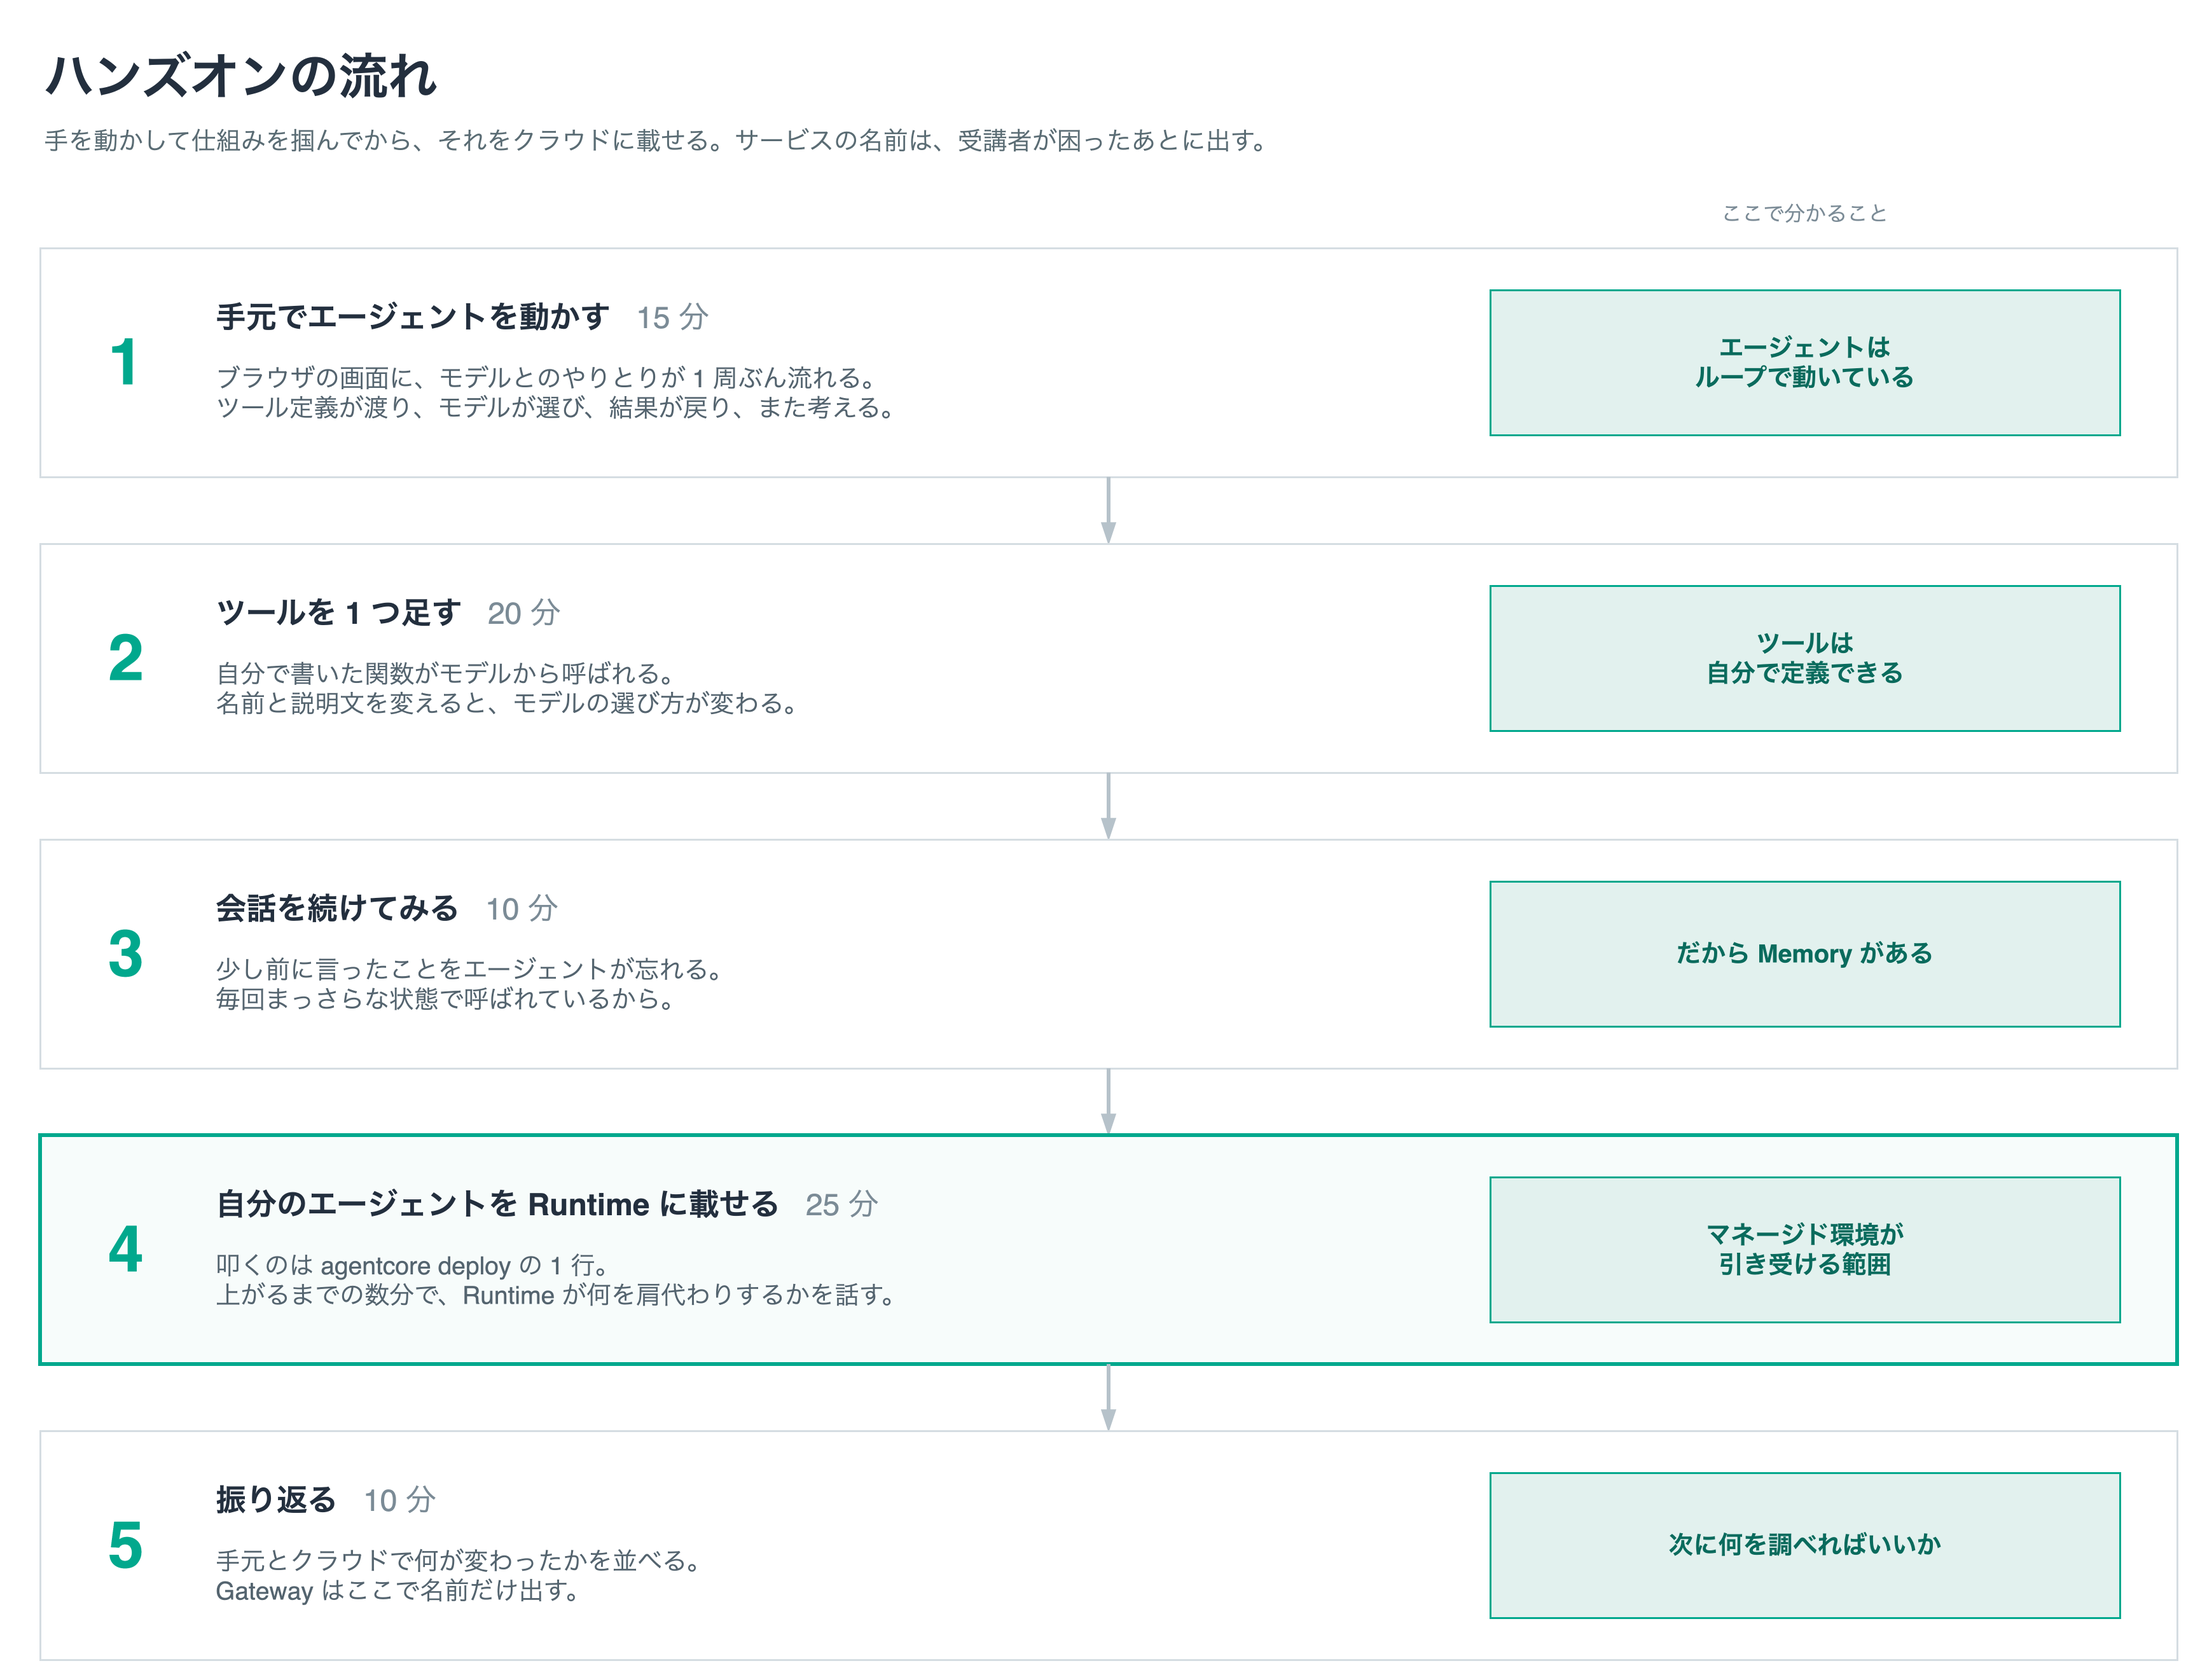
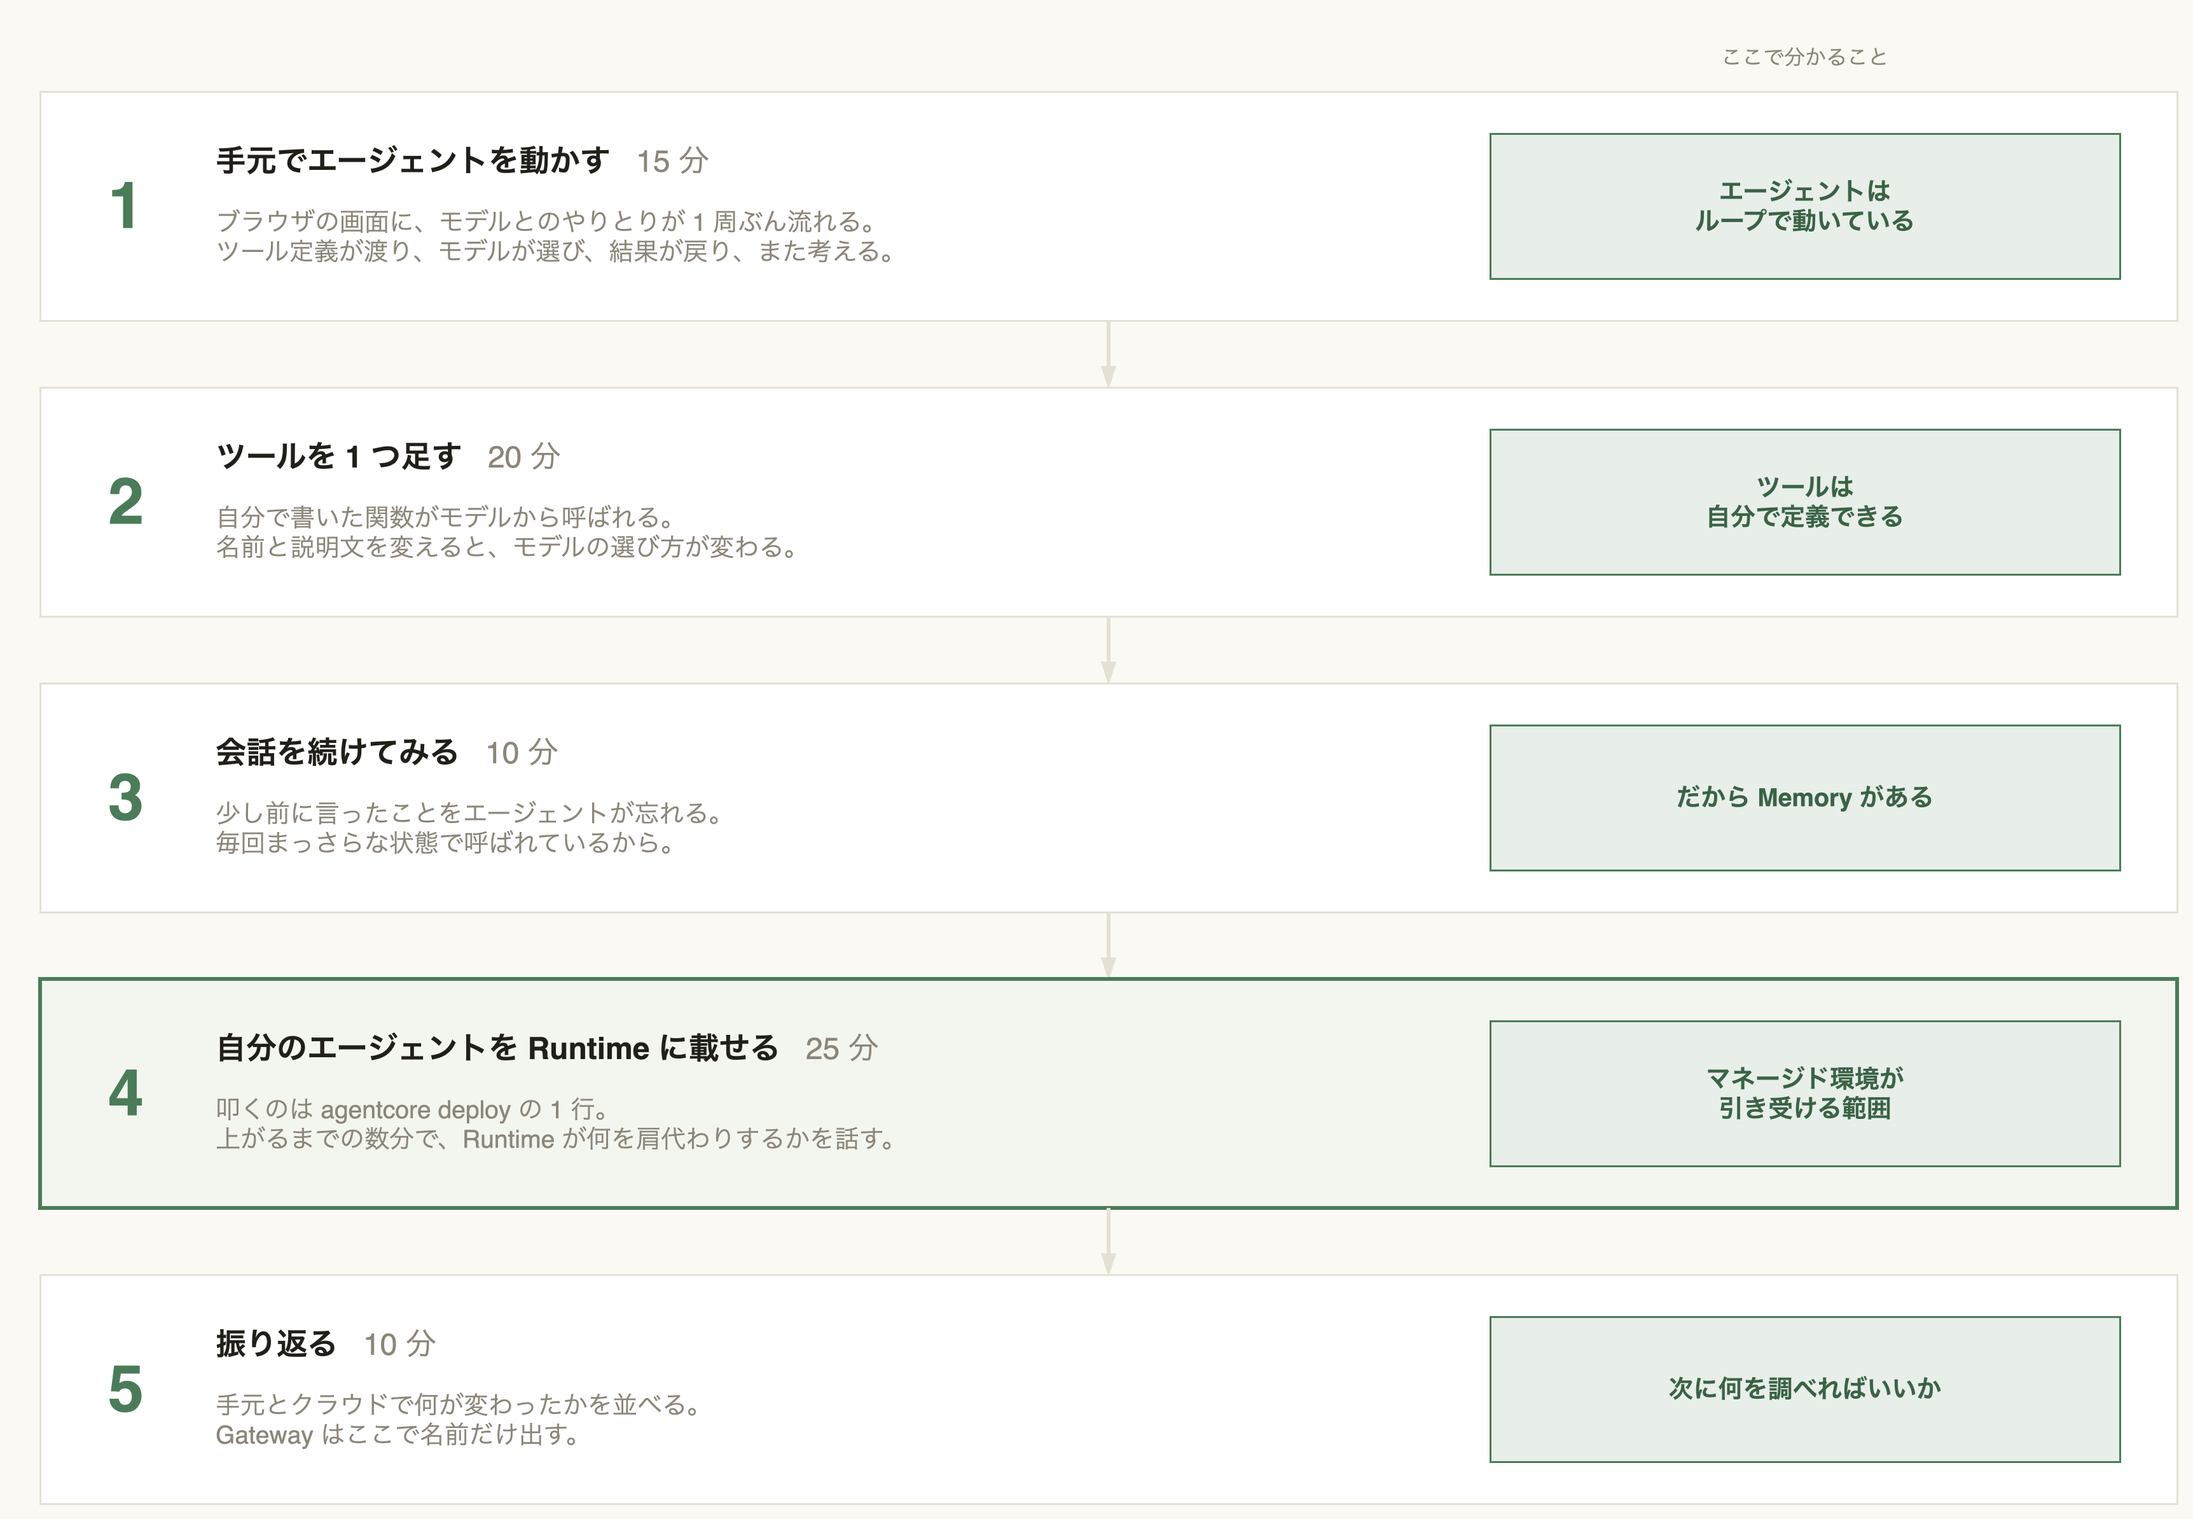
図をサイトの配色に合わせて見出しを外し、ページ送りをカード型に差し替え、コードを暗い背景にする (#51)

diff --git a/guide/src/styles/custom.css b/guide/src/styles/custom.css
@@ -231,24 +231,7 @@ site-search button[data-open-modal] {
   background: var(--line);
 }
 
-/* --- 前へ / 次へ。影を消して線だけにする --- */
-.pagination-links a {
-  border: 1px solid var(--line);
-  box-shadow: none;
-  border-radius: 6px;
-  color: var(--ink-strong);
-}
-.pagination-links a:hover {
-  border-color: var(--accent);
-}
-.pagination-links a > span {
-  color: var(--muted);
-  font-family: var(--sl-font-mono);
-  font-size: 0.8rem;
-}
-.pagination-links .link-title {
-  font-size: 1.05rem;
-}
+/* 前へ / 次へは src/components/Pagination.astro に差し替えてあり、スタイルもそこに書いている */
 
 /* --- スマホのメニューボタンなど --- */
 starlight-menu-button button {
